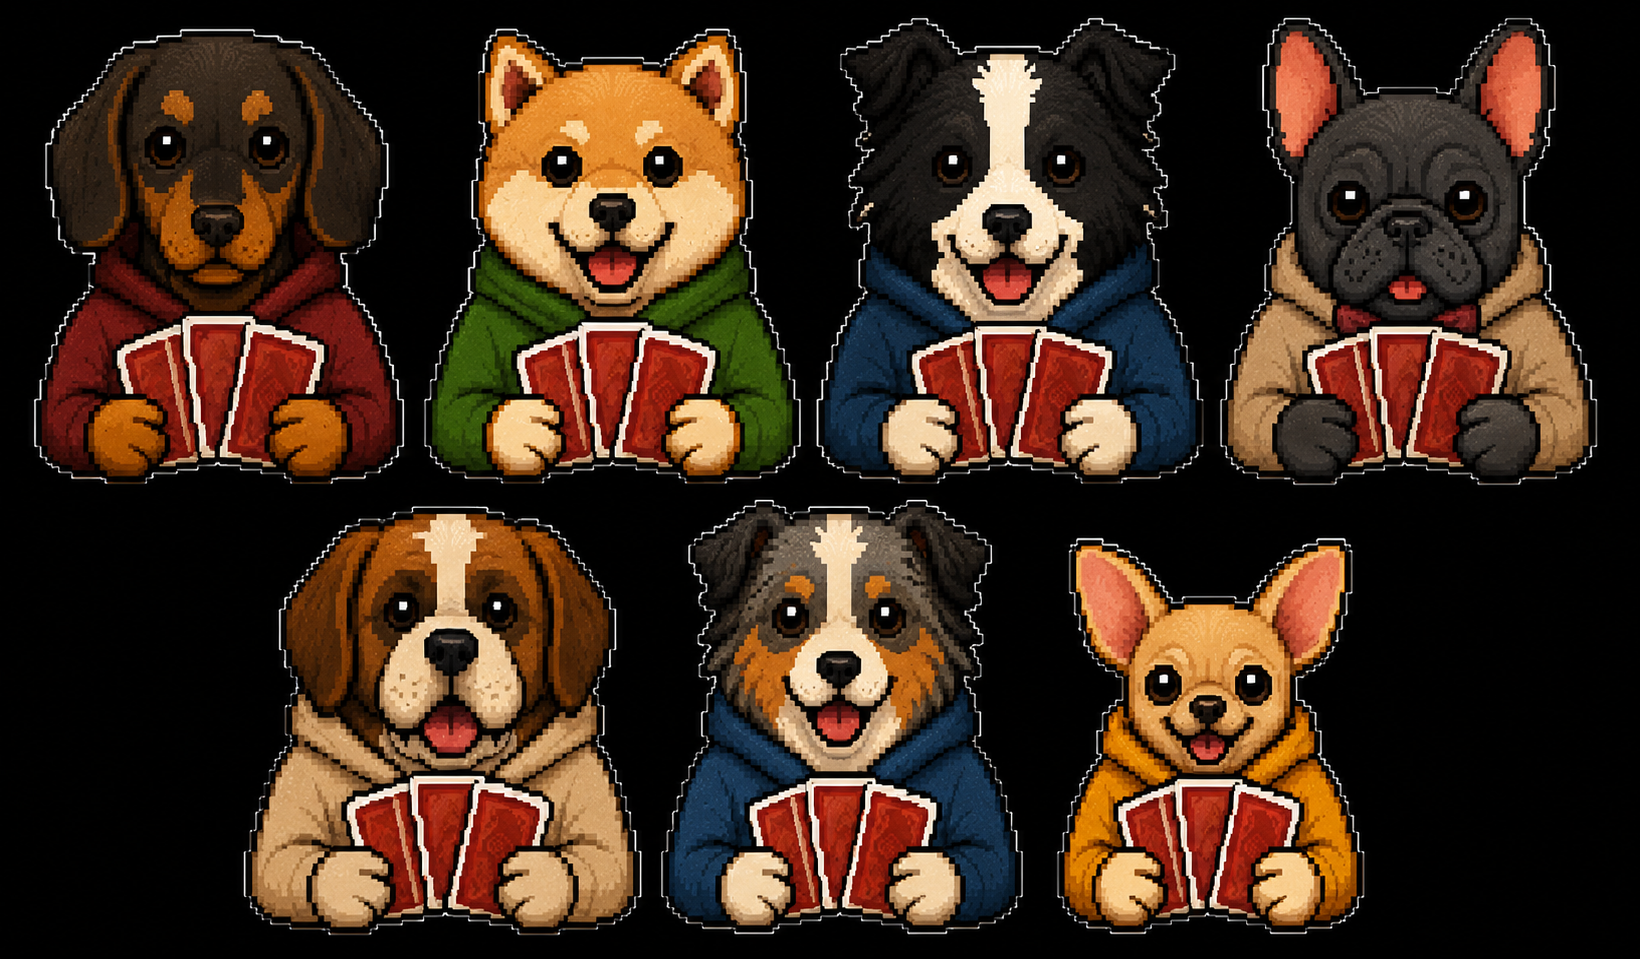
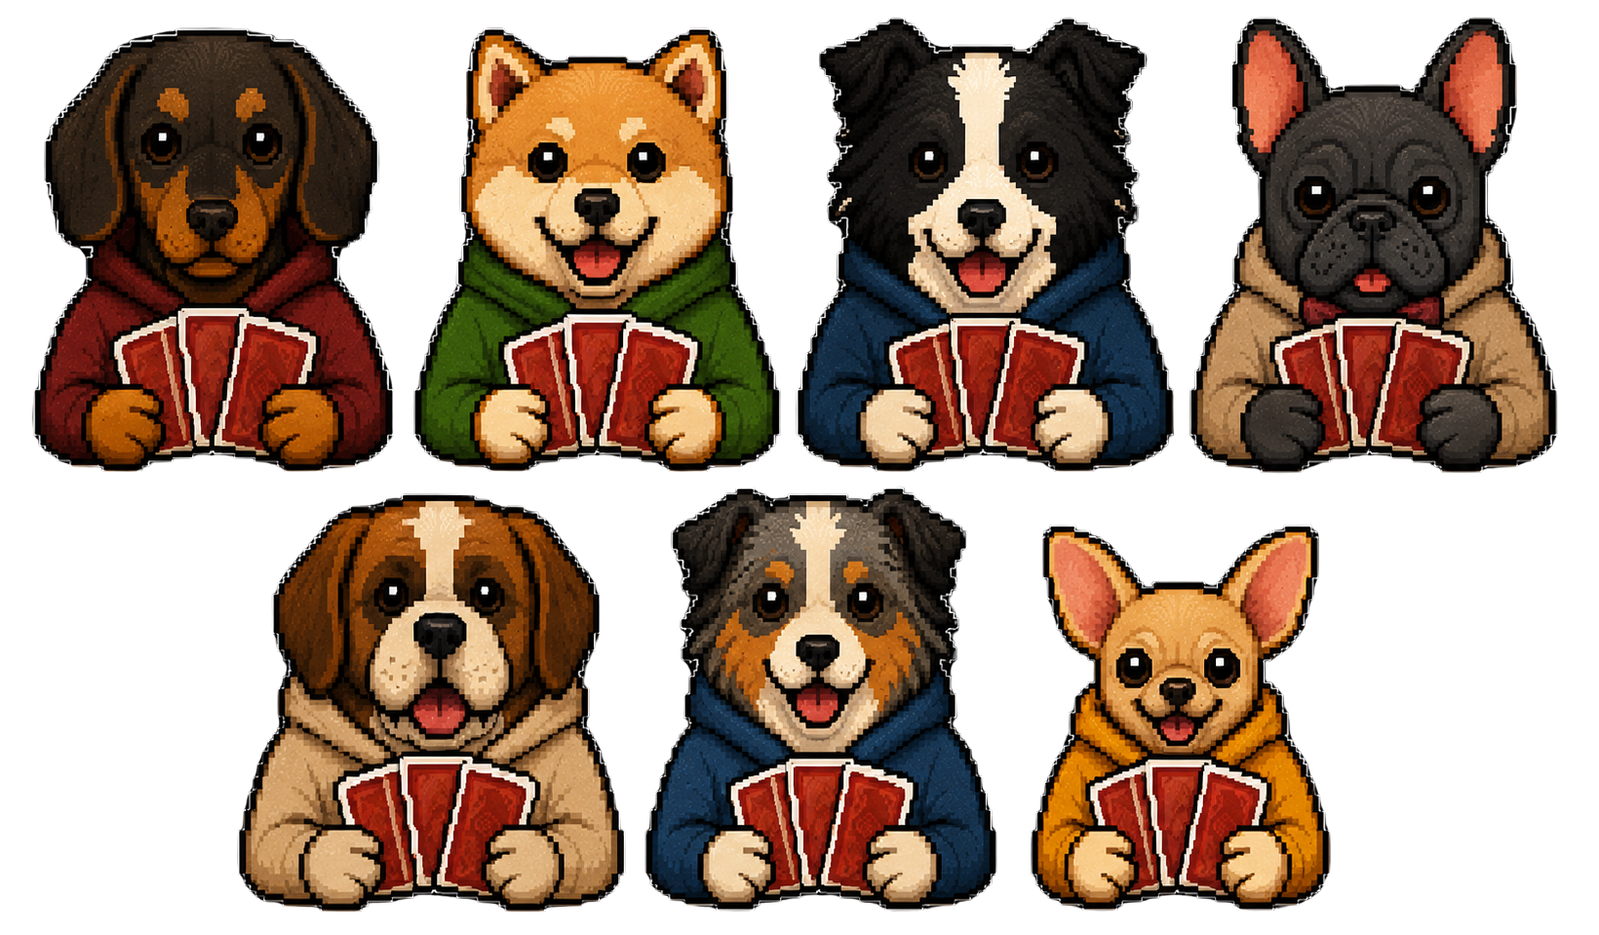
feat: Novos dogs

diff --git a/src/main/services/pokerServer.ts b/src/main/services/pokerServer.ts
@@ -16,7 +16,7 @@ const PORT = Number(process.env.POKER_PORT) || 4242;
 /** Cartas válidas (mesmo set do renderer). Não-numéricas saem da média. */
 const NON_NUMERIC = new Set(['?', '☕']);
 
-const DOG_COUNT = 7;
+const DOG_COUNT = 14;
 
 interface Participant {
   id: string;